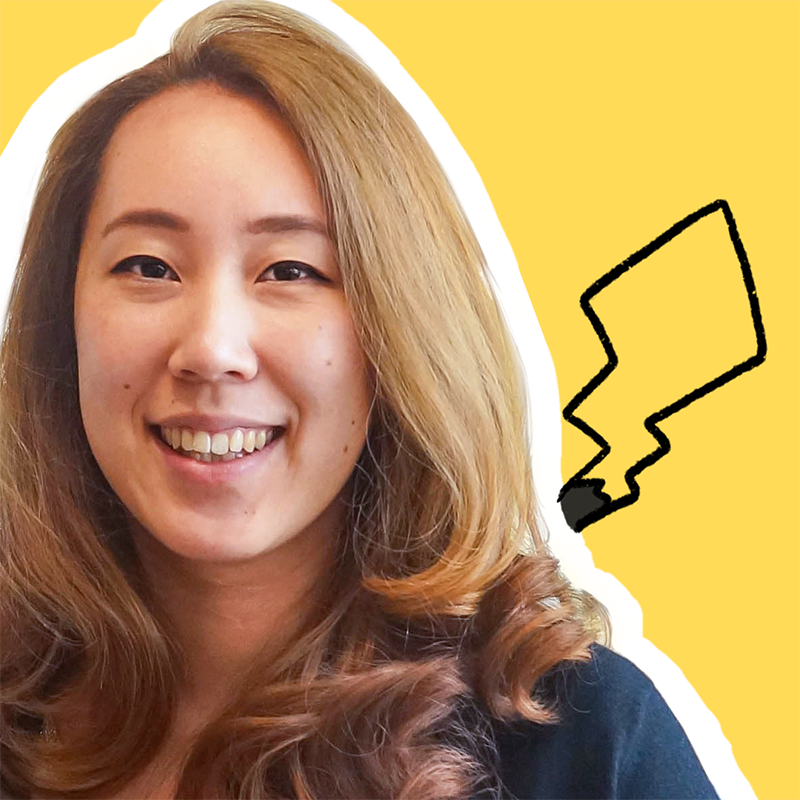
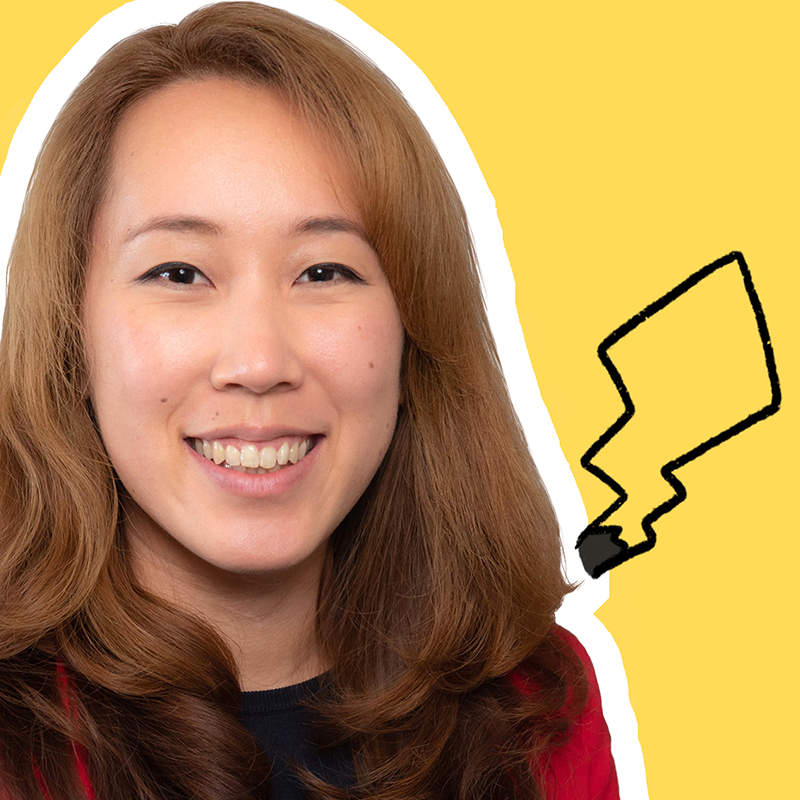
update title, bio and headshots

diff --git a/about.html b/about.html
@@ -57,7 +57,7 @@
       </div>
       <div class="text_center"><img src="img/about_secret.png" width="330" height="220" alt="Drawing of Detective Pikachu" class="img_fluid" /></div>
       <div class="my_4">
-        <p>I am now responsible for the design vision and strategy of <a href="https://www.societegenerale.com">Societe Generale CIB</a>. 
+        <p>I am now responsible as managing director for the design vision and strategy of <a href="https://www.societegenerale.com">Societe Generale CIB</a>. 
         I lead from London an international and multidisciplinary <a href="https://design.sgmarkets.com">team of design experts</a> in service of our mission to empower people to take control over sophisticated products and financial systems.</p>
       </div>
       <div class="text_center"><img src="img/about_quest.png" width="360" height="240" alt="Drawing of a bottle with a quest invitation" class="img_fluid" /></div>
@@ -87,18 +87,18 @@
     <div class="grid_md_span_2 grid_mt_3">
       <div class="callout_section">
         <p class="text_bold">Short bio</p>
-      <p>Morgane Peng is responsible for the design vision and strategy of Societe Generale Corporate & Investment Banking. She delivers united and meaningful experiences with her team across Societe Generale products for start-ups, corporates and financial institutions.</p>
+      <p>Morgane Peng is responsible as managing director for the design vision and strategy of Societe Generale Corporate & Investment Banking. She delivers united and meaningful experiences with her team across Societe Generale products for start-ups, corporates and financial institutions.</p>
       <p>Previously, Morgane ventured into various fields such as consulting, financial markets and tech. In her spare time, she’s a gamer at heart and works on an indie video game which was successfully crowdfunded on Kickstarter.</p>
       </div>
       <div class="callout_section my_3">
         <p class="text_bold">Extended bio</p>
       <p>Morgane Peng started her career in consulting and finance, where she explained structured investment solutions to diverse clients ranging from agricultural cooperatives in Paris to regional banks in in Hong Kong. She saw a design opportunity in the badly-designed, esoteric software used in financial systems and on the trading floor. In her quest to make enterprise financial management tools more user-friendly, she found a path to becoming a UX designer.</p>
-      <p>Today, Morgane is responsible for the design vision and strategy of Societe Generale Corporate & Investment Banking. Working out of the 150-year old banking group's offices in London and Paris, she delivers united and meaningful experiences with her team across Societe Generale products—ranging across start-ups, corporates and financial institutions.</p>
+      <p>Today, Morgane is responsible as managing director for the design vision and strategy of Societe Generale Corporate & Investment Banking. Working out of the 150-year old banking group's offices in London and Paris, she delivers united and meaningful experiences with her team across Societe Generale products for start-ups, corporates and financial institutions.</p>
       <p>Previously, Morgane ventured into various fields such as consulting, financial markets and tech. In her spare time, she’s a gamer at heart and works on an indie video game which was successfully crowdfunded on Kickstarter.</p>
       </div>
       <div class="callout_section my_3">
         <p class="text_bold">French bio 🇫🇷</p>
-      <p>Morgane Peng est Director of UX & Design pour la banque de financement et d’investissement de Société Générale. Forte d’une expérience entrepreneuriale dans les industries numériques, culturelles et créatives, elle s’est aventurée dans divers domaines du conseil en entreprise, de la finance de marché, du design et de la tech.</p>
+      <p>Morgane Peng est directrice générale du design pour la banque de financement et d’investissement de Société Générale. Forte d’une expérience entrepreneuriale dans les industries numériques, culturelles et créatives, elle s’est aventurée dans divers domaines du conseil en entreprise, de la finance de marché, du design et de la tech.</p>
       <p>Parallèlement à sa carrière, Morgane est une Game Artist passionnée qui participe activement au développement de jeux vidéo indépendants.</p>
       </div>
     </div> 

diff --git a/index.html b/index.html
@@ -38,7 +38,7 @@
 </div>
 
 <div class="container_md my_8">
-  <h1 class="display mb_0">I'm a Design Director blending <span class="highlight">user experience</span> with <span class="highlight">business strategy</span> in the <span class="highlight">financial space</span></h1>
+  <h1 class="display mb_0">A Design Executive blending <span class="highlight">user experience</span> with <span class="highlight">business strategy</span> in the <span class="highlight">financial space</span></h1>
   <p class="lead mb_4"> — who also adventured into indie game making, global markets and tech. I currently work at Societe Generale CIB, somehow living between London 💂 and Paris 🥐.</p>
   <p class="lead">Find me on <a href="https://medium.com/@morganepeng">Medium</a> or <a href="https://twitter.com/morganepeng">Twitter</a> ✍.</p>
   <div class="text_center">
